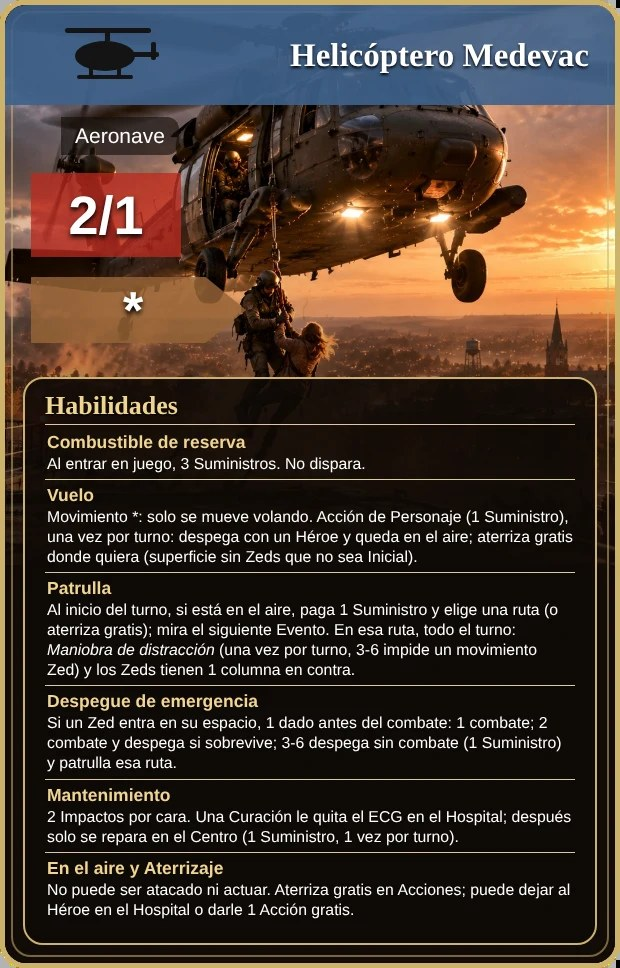
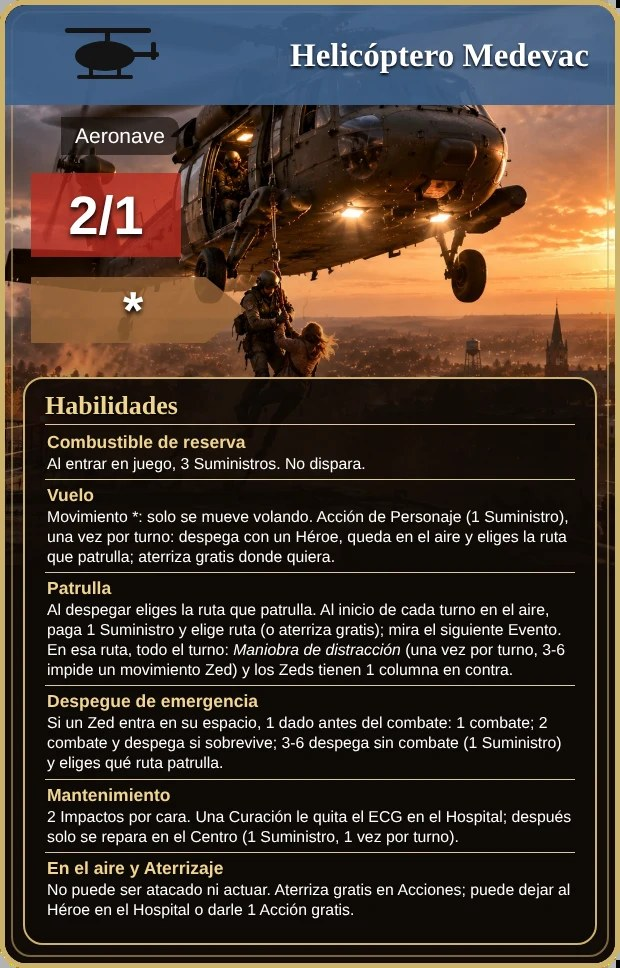
Helicóptero Medevac: al despegar se elige la ruta que patrulla
Tanto en el Vuelo como en el Despegue de emergencia se pregunta qué ruta patrulla
el resto del turno (la del despegue sale primera); al inicio del siguiente
turno se vuelve a preguntar al pagar el combustible. Carta, textos, CHANGELOG,
BUILD_TIME y caché actualizados.

Claude-Session: https://claude.ai/code/session_01KmRiLZMftQUUyzar8LGUez

Changed region(s): [[0.0613, 0.6198, 0.9194, 0.7128], [0.0919, 0.5269, 0.9194, 0.5888], [0.0919, 0.7748, 0.3677, 0.8058]]

diff --git a/js/expansions.js b/js/expansions.js
@@ -31,7 +31,7 @@ Object.assign(HEROES, {
   sar: { name: 'Búsqueda y Rescate (SAR)', type: 'civh', cls: 'Civiles Heroicos', full: 3, red: 2, mp: 3, img: 'sar', card: 'h_sar', lv: 2, exp: 4, hf: 2, hr: 2,
     txt: ['<b>Despejar:</b> Acción de Personaje (1 Acción), una vez por turno, aunque haya Caos en su espacio: en el Mantenimiento quita 2 fichas de Caos de ese espacio sin subir la Infección.', '<b>Escudo humano:</b> 1 columna a favor en combates Cuerpo a Cuerpo y al disparar mientras haya Refugiados o Aldeanos en su espacio.'] },
   heli: { name: 'Helicóptero Medevac', type: 'hero', cls: 'Aeronave', full: 2, red: 1, mp: 3, mpTxt: '*', img: 'heli', card: 'h_heli', lv: 2, exp: 4, hf: 2, hr: 2, nofire: 1,
-    txt: ['<b>Combustible de reserva:</b> al entrar en juego obtienes 3 Suministros.', '<b>Vuelo:</b> su Movimiento es *: no usa la Acción de Mover, solo se mueve volando. Acción de Personaje (1 Suministro), una vez por turno: el helicóptero y un Héroe de su espacio despegan y quedan en el aire. Aterrizan después, gratis, donde quieran (cualquier espacio de superficie sin Zeds que no sea Inicial), o siguen en el aire. No pueden llevar a Pepinillos, Horacio, el General Lee ni Carter.', '<b>Patrulla:</b> al inicio de cada turno, tras revelar el Evento, si está en el aire paga 1 Suministro y elige una ruta para patrullar, o aterriza gratis. Mira la siguiente carta de Evento. En esa ruta, todo el turno: <b>Maniobra de distracción</b> (reacción, una vez por turno: antes de que una unidad o Horda Zed se mueva, tira 1 dado; con 3-6 no se mueve, y si falla no puede reintentarlo) y los Zeds tienen 1 columna en contra en todos los combates.', '<b>Despegue de emergencia:</b> cuando una unidad Zed entra en su espacio, tira 1 dado antes del combate: 1 combate normal y no despega; 2 combate normal y, si sigue vivo, despega; 3-6 despega sin combate. Al despegar paga 1 Suministro, puede llevarse al Héroe de su espacio y patrulla esa ruta el resto del turno.', '<b>En el aire:</b> ni el helicóptero ni su Héroe pueden ser atacados ni realizar Acciones.', '<b>Aterrizaje:</b> gratis en cualquier momento de la fase de Acciones, en un espacio de superficie sin Zeds que no sea Inicial. Puede dejar al Héroe en una Cama libre del Hospital (sin ECG ni Infección); si aterriza en un espacio, el Héroe recibe 1 Acción gratis.', '<b>Mantenimiento:</b> recibe 2 Impactos por cara. Las unidades médicas no pueden repararlo de forma habitual: si cae al Hospital, una Curación le retira el ECG; después solo se repara en el Centro, pagando 1 Suministro, una vez por turno.', '<b>No dispara.</b>'] },
+    txt: ['<b>Combustible de reserva:</b> al entrar en juego obtienes 3 Suministros.', '<b>Vuelo:</b> su Movimiento es *: no usa la Acción de Mover, solo se mueve volando. Acción de Personaje (1 Suministro), una vez por turno: el helicóptero y un Héroe de su espacio despegan y quedan en el aire, y eliges qué ruta patrullan el resto del turno. Aterrizan después, gratis, donde quieran (cualquier espacio de superficie sin Zeds que no sea Inicial), o siguen en el aire. No pueden llevar a Pepinillos, Horacio, el General Lee ni Carter.', '<b>Patrulla:</b> al despegar eliges la ruta que patrulla el resto del turno. Al inicio de cada turno siguiente, tras revelar el Evento, si sigue en el aire paga 1 Suministro y vuelve a elegir ruta, o aterriza gratis. Mira la siguiente carta de Evento. En esa ruta, todo el turno: <b>Maniobra de distracción</b> (reacción, una vez por turno: antes de que una unidad o Horda Zed se mueva, tira 1 dado; con 3-6 no se mueve, y si falla no puede reintentarlo) y los Zeds tienen 1 columna en contra en todos los combates.', '<b>Despegue de emergencia:</b> cuando una unidad Zed entra en su espacio, tira 1 dado antes del combate: 1 combate normal y no despega; 2 combate normal y, si sigue vivo, despega; 3-6 despega sin combate. Al despegar paga 1 Suministro, puede llevarse al Héroe de su espacio y eliges qué ruta patrulla el resto del turno.', '<b>En el aire:</b> ni el helicóptero ni su Héroe pueden ser atacados ni realizar Acciones.', '<b>Aterrizaje:</b> gratis en cualquier momento de la fase de Acciones, en un espacio de superficie sin Zeds que no sea Inicial. Puede dejar al Héroe en una Cama libre del Hospital (sin ECG ni Infección); si aterriza en un espacio, el Héroe recibe 1 Acción gratis.', '<b>Mantenimiento:</b> recibe 2 Impactos por cara. Las unidades médicas no pueden repararlo de forma habitual: si cae al Hospital, una Curación le retira el ECG; después solo se repara en el Centro, pagando 1 Suministro, una vez por turno.', '<b>No dispara.</b>'] },
   caza: { name: 'Club de Caza de Farmingdale', type: 'civh', cls: 'Civiles Heroicos', full: 3, red: 2, mp: 3, img: 'caza', card: 'h_caza', lv: 2, exp: 4, hf: 2, hr: 2,
     txt: ['<b>Puesto de caza:</b> disparan a 2 espacios sin penalización de columna.', '<b>Trofeo:</b> cuando su disparo elimina a una unidad Zed, recuperan 1 Munición.', '<b>Presa marcada:</b> Acción de Personaje (1 Acción), una vez por turno: marcan una unidad Zed a su alcance. Los disparos de cualquier unidad de jugador contra ella tienen 1 columna a favor hasta que sea eliminada o termine el turno.', '<b>A campo abierto:</b> tienen 1 columna en contra en combates Cuerpo a Cuerpo.'] }
 });

diff --git a/js/expansions2.js b/js/expansions2.js
@@ -107,14 +107,21 @@ function heliLandSpaces(u, comp) {
 async function heliVuelo(u) {
   await heliTakeoff(u, null, 'Vuelo');
 }
-/* Despega (de emergencia o no): queda en el aire con su Héroe y patrulla la ruta indicada lo que queda de turno. */
-async function heliTakeoff(h, route, why) {
+/* Al despegar se elige qué ruta patrulla lo que queda de turno (la ruta del despegue sale la primera). */
+async function heliElegirRuta(why, hint) {
+  const rs = G.routes.slice().sort((a, b) => (b === hint) - (a === hint));
+  const opts = rs.map(r => ({ label: 'Patrullar: ' + ROUTES[r].name + (r === hint ? ' (donde estaba)' : ''), value: r, color: ROUTES[r].color, focus: routeSpaces(r) }));
+  return await UI.choose({ title: 'Helicóptero Medevac', text: why + ': ¿qué ruta patrulla el resto del turno? Al inicio del siguiente turno, si sigue en el aire, pagará 1 Suministro y volverá a elegir (o aterrizará gratis).', options: opts });
+}
+/* Despega (de emergencia o no): queda en el aire con su Héroe y patrulla la ruta elegida lo que queda de turno. */
+async function heliTakeoff(h, hint, why) {
   let pas = null; const cands = heliCands(h);
   if (cands.length) { const v = await UI.pickUnit(cands, why + ': ¿qué Héroe se lleva el helicóptero? (cancelar = ninguno)', true); if (v != null) pas = G.units[v]; }
   G.supplies = Math.max(0, G.supplies - 1); G.charUsed.vuelo = true;
   putUnit(h, 'AIR'); h.pasajero = pas ? pas.id : null; if (pas) putUnit(pas, 'AIR');
-  if (route) G.turn.patrol = route;
-  LOG(why + ': ' + h.name + (pas ? ' y ' + pas.name : '') + ' despegan y quedan en el aire' + (route ? ' patrullando ' + ROUTES[route].name : '') + ' (−1 Suministro).', 'good');
+  UI.updateStats(); UI.redraw();
+  const ruta = await heliElegirRuta(why, hint); if (ruta) G.turn.patrol = ruta;
+  LOG(why + ': ' + h.name + (pas ? ' y ' + pas.name : '') + ' despegan y quedan en el aire' + (ruta ? ' patrullando ' + ROUTES[ruta].name : '') + ' (−1 Suministro).', 'good');
   UI.updateStats(); UI.redraw();
 }
 /* Tirada de Despegue de emergencia: 'now' (despega sin combate), 'after' (combate y luego despega si sobrevive) o null. */

diff --git a/sw.js b/sw.js
@@ -1,7 +1,7 @@
 /* Service worker: permite instalar la web como app y jugar sin conexión.
    Código (html/js/css): red primero, con copia local de reserva. Imágenes y audio: caché primero. */
 'use strict';
-const CACHE = 'doz3-v51';
+const CACHE = 'doz3-v52';
 const SHELL = ['./', 'index.html', 'style.css', 'manifest.webmanifest', 'icons/icon-192.png', 'icons/icon-512.png', 'assets/portada.jpg', 'assets/fondo_nueva.webp', 'assets/fondo_ranking.webp',
   'js/version.js', 'js/data.js', 'js/events.js', 'js/dest.js', 'js/evlog.js', 'js/preview.js', 'js/obituario.js', 'js/engine.js', 'js/game.js', 'js/phases.js', 'js/actions.js', 'js/cardtext.js', 'js/ui.js', 'js/anim.js',
   'js/expansions.js', 'js/expansions2.js', 'js/sfx.js', 'js/sound.js', 'js/opciones.js', 'js/voz.js', 'js/ost.js', 'assets/sonidos/letras/letras.js', 'assets/sonidos/efectos/sfx_disparo.mp3', 'assets/sonidos/efectos/sfx_disparo_largo.mp3', 'js/mapzoom.js', 'js/seedcode.js', 'js/save.js', 'js/main.js', 'js/bot.js'];

diff --git a/js/version.js b/js/version.js
@@ -1,2 +1,2 @@
 /* Fecha y hora de la última build (hora de Madrid). Se actualiza con cada cambio publicado. */
-const BUILD_TIME = '2026-10-31 16:40';
+const BUILD_TIME = '2026-10-31 17:10';

diff --git a/CHANGELOG.md b/CHANGELOG.md
@@ -2,6 +2,11 @@
 
 Registro de cambios por publicación (push a `main`). Lo más reciente, arriba. Cada entrada lleva la misma fecha y hora que `BUILD_TIME` de `js/version.js`.
 
+## 2026-10-31 17:10
+
+### Cambios
+- **Helicóptero Medevac:** al despegar (con el Vuelo o con el Despegue de emergencia) se elige qué ruta patrulla lo que queda de turno; al inicio del siguiente turno, si sigue en el aire, se vuelve a preguntar al pagar el combustible (1 Suministro) o aterriza gratis.
+
 ## 2026-10-31 16:40
 
 ### Fixes
